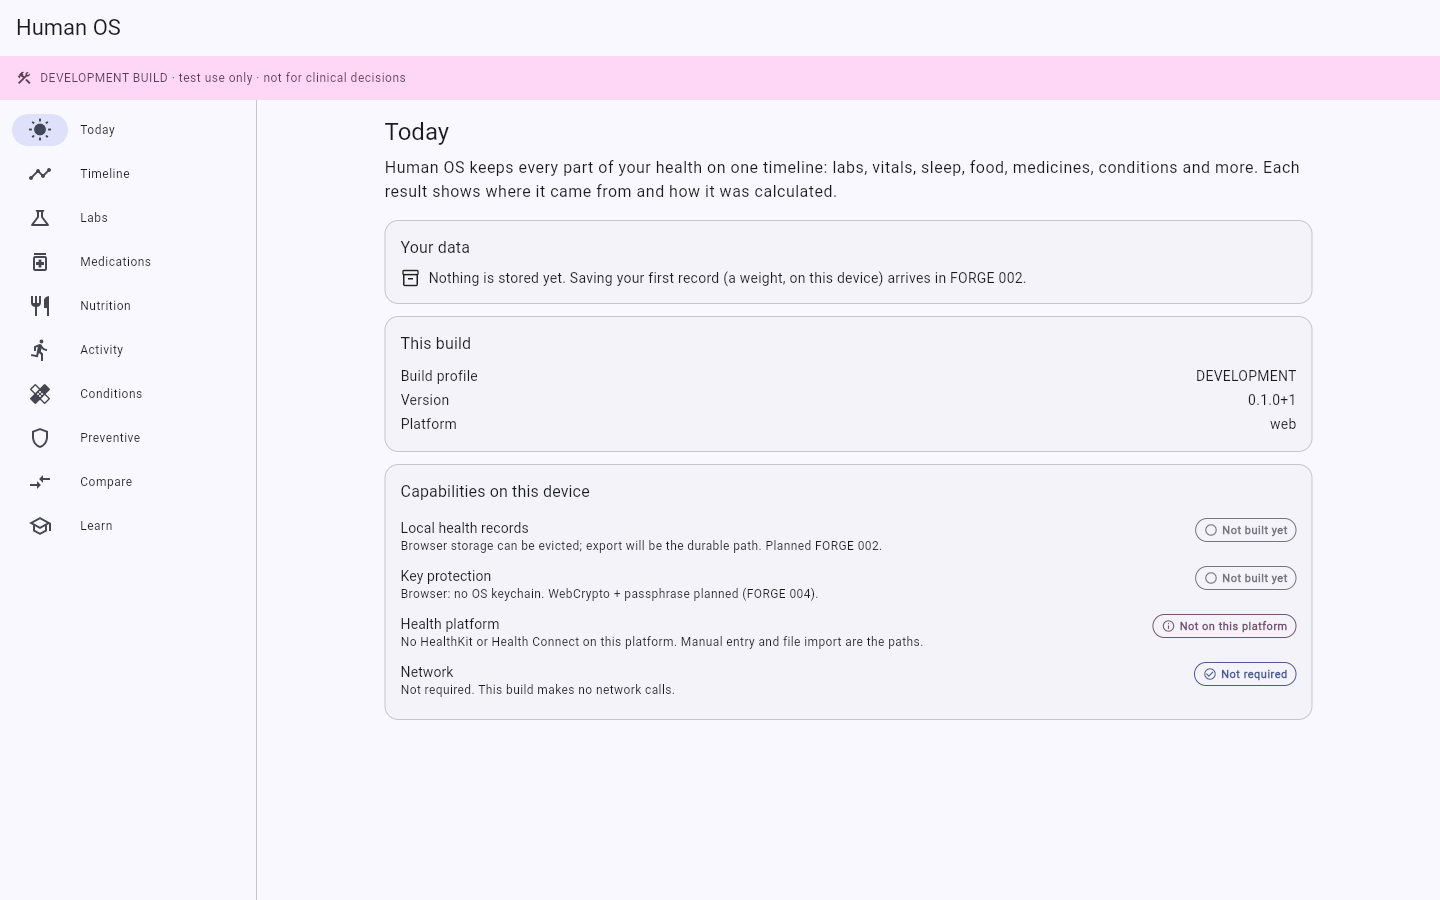
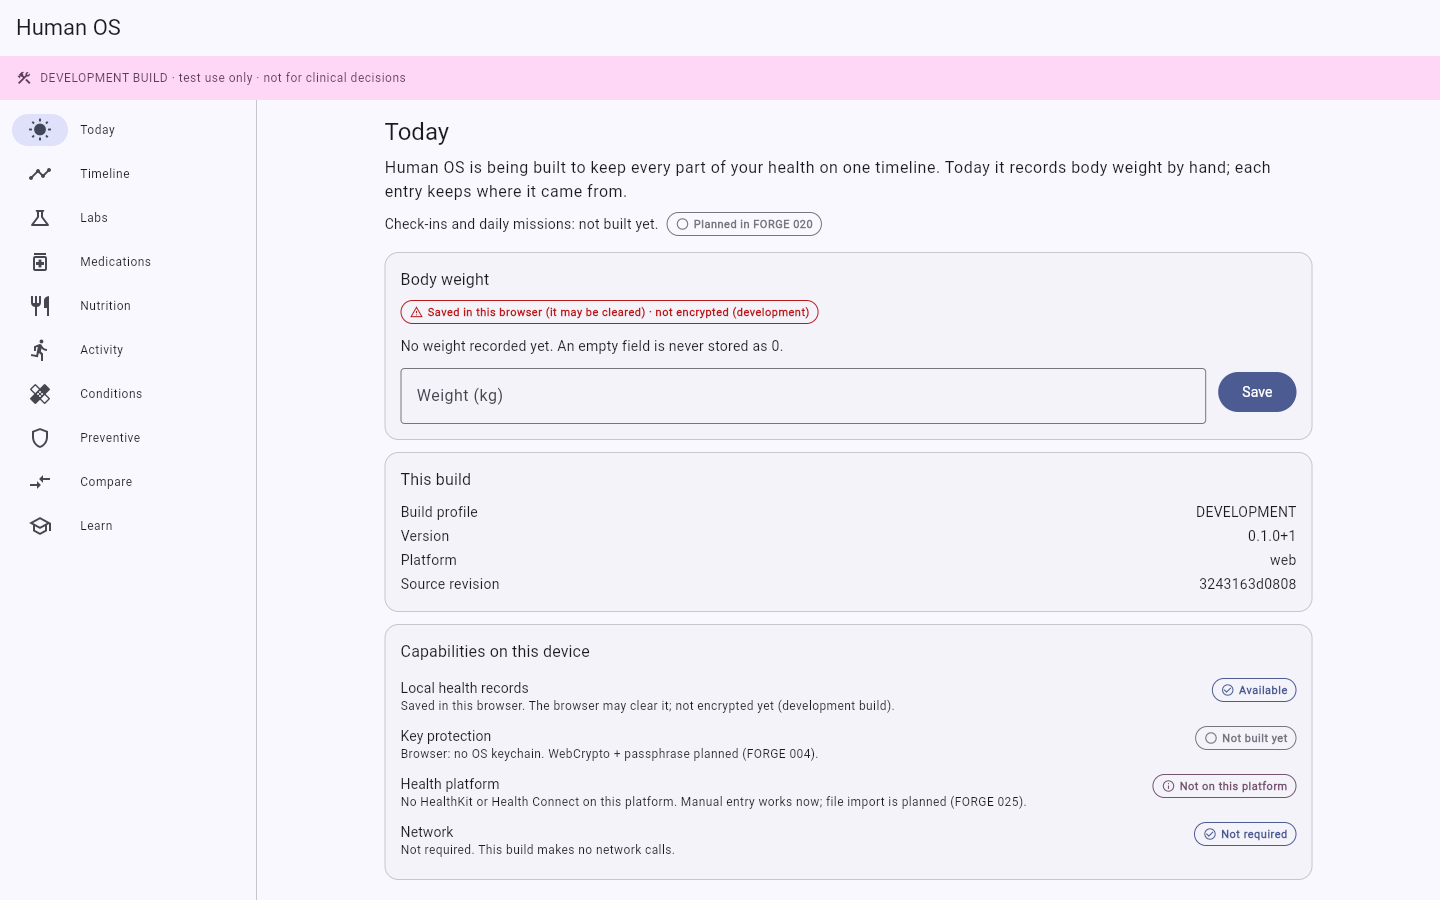
FORGE 002 report: evidence from commit 3243163, artifact hashes, state update
Web smoke 26/26 and Linux integration + launch evidence recorded against
the FORGE 002 code commit; artifact record with commands, hashes, glibc
floor and lockfile digests; FORGE log, CURRENT_STATE, ROADMAP and RISKS
updated. Next: F030L-1 Linux packages per v0.28.

Claude-Session: https://claude.ai/code/session_01Fg3ujcHPVxLDNVHLpFgU9v

diff --git a/project_state/FORGE_LOG.md b/project_state/FORGE_LOG.md
@@ -84,3 +84,77 @@ The FOUNDATION stage has started: F001 is **COMPILED + RUNTIME_TESTED** on web a
 
 ## Next recommended FORGE
 **FORGE 002, the local heartbeat.** Add a `HealthRepository` port, an in-memory adapter and a file-backed vault adapter. Create one profile and one canonical weight observation with provenance and `value_status`. Save, restart and read back the same record, and show missing ≠ 0 in the UI.
+
+---
+
+# FORGE 002: Local heartbeat (profile + one canonical record, save → restart → read back)
+
+## Goal
+First real health data path in the Flutter product: one self profile, one canonical body-weight observation with provenance and `value_status`, saved, re-read after restart, and shown with missing ≠ 0. Mid-FORGE the user supplied v0.28 (Linux distribution layer) and said to develop that way, so the v0.28 storage rules were applied here.
+
+## Baseline state
+F001 (6abf755): shell only, nothing persisted. Web and Linux RUNTIME_TESTED (launch). No domain layer.
+
+## Implemented
+- **Domain (pure Dart):** `HealthRecord` envelope (`RecordState`, `ValueStatus`, `Provenance`, `Quantity`, original text, UTC observed/recorded times, `supersedesId`, `deletedAt`, `schemaVersion`), `validate()` with stable codes (MISSING_ID, PRESENT_REQUIRES_QUANTITY, MISSING_HAS_NO_QUANTITY, NON_UTC_TIME, SELF_SUPERSEDE, UNIT_NOT_SUPPORTED, OUT_OF_PLAUSIBLE_RANGE), `currentRecords()` (supersede chains + tombstones), `Profile`, `HealthRepository` port, `StorageDescription`.
+- **Vault log:** append-only JSON lines (header + operations). An interrupted last line is skipped **with a visible warning**; a bad middle line is skipped with a warning; identical duplicates replay idempotently; conflicting duplicates and newer formats are refused.
+- **Adapters:** one `LogRepository` over three sinks: memory, file (`dart:io`, temp-file + rename on create, append + flush), browser `localStorage` (`dart:js_interop`, SDK only). Conditional export picks the platform.
+- **Storage policy (v0.28 / D-009):** production → memory only. Portable mode (`portable_mode.json` beside the executable) → memory only, **nothing written beside the app** until the encrypted vault (F004). Development desktop → XDG data dir / Application Support / LOCALAPPDATA. Android/iOS → memory with a notice. Every mode is labelled in the UI ("not encrypted (development)", "Not saved: kept only until the app closes", browser "may be cleared").
+- **Application + UI:** `HeartbeatService` (accepts "78,4"; blank, non-numeric, out-of-range and future times are errors, never 0), `WeightCard` (empty state, save, latest, history with "entered as" when the text differs), `bootstrap()` with a memory fallback if the vault cannot be opened.
+- **Audit fixes (honesty lens on F001; the code and completeness lenses did not finish and were not rerun):** Today intro rewritten from present-tense claims to "is being built…"; health-platform text no longer claims file import; Today now names its planned FORGE (020) for check-ins and missions; "This build" shows the source revision; the staging banner carries "not for clinical decisions"; the domain purity guard now checks import/export/part in both quote styles, fails if `lib/src/domain` disappears and has negative fixtures; README, ARCHITECTURE, CLAUDE.md (smoke path, full evidence ladder, digest precedence), PLATFORM_MATRIX, KNOWN_GAPS (status column) and D-007 (real transitive package list) corrected; the `docs/forge/CURRENT.md` link restored as a redirect stub; the smoke JSON now records time, git HEAD, `main.dart.js` hash, browser and runs; the Linux run log records liveness and labels headless GTK noise.
+
+## Files changed
+`human_health_os/lib/src/{domain,data,application}/**` (new), `lib/src/app/{app_services,bootstrap}.dart` (new), `lib/src/core/ids.dart` (new), `lib/src/features/today/*`, `lib/src/l10n/strings.dart`, `lib/src/core/capabilities.dart`, `lib/src/config/app_config.dart`, `lib/src/navigation/destinations.dart`, `lib/main.dart`; tests in `test/{domain,data,widget,architecture}`, `integration_test/heartbeat_test.dart`; `pubspec.yaml` (+ `integration_test` SDK dev dependency); `tools/flutter_web_smoke.mjs`; docs and `project_state/*`; `docs/handoff/v0.28-candidate/*`.
+
+## Data / migration changes
+New on-disk format `hhos-vault-log` v1 (`vault.hhoslog.jsonl`, header `encryption: none-dev-only`). Record schema v1. Readers refuse newer versions. F004 replaces the payload with an encrypted envelope; a migration from v1 dev logs is optional (dev data only).
+
+## Security / privacy impact
+Development builds now write **unencrypted** health data to the user data directory (labelled in the UI). Production and portable builds cannot write health data at all. No network code (architecture test). No secrets in the repo (scan of staged files: none). Real health data: none committed; tests use synthetic values in temp directories.
+
+## Tests actually executed
+| Command | Result | Status |
+|---|---|---|
+| `dart format --output=none --set-exit-if-changed lib test integration_test` | 0 changed | PASS |
+| `flutter analyze` | no issues | PASS |
+| `flutter test` | 58/58 (domain, data contract on memory + file, storage policy, architecture, widget incl. TR 320×640, staging, revision) | PASS |
+| Mutation: double-quoted Flutter `export` in `domain/profile/profile.dart` | architecture test FAILS, passes after revert | PASS (guard is meaningful) |
+| `xvfb-run flutter test integration_test -d linux` on 3243163 | save "77,9" → relaunch → same record → data folder moved → same record | PASS |
+| `node tools/flutter_web_smoke.mjs` on the 3243163 web build | 26/26 (desktop-en, phone-en, phone-tr; save → reload → persisted; honesty label; 0 external requests; 0 page errors) | PASS |
+| Linux release bundle under Xvfb (X11), `LANG=C.UTF-8`, scratch `XDG_DATA_HOME` | alive after 12 s (`kill -0`), screenshot shows Today + revision `3243163d0808`; vault = header + self profile, 0 records | PASS (launch only) |
+| TS reference / Build Lab (`pnpm test`, `verify_contracts.py`) | not rerun: no TS change in this FORGE | NOT_RUN |
+
+## Builds actually executed
+| Platform | Command | Status |
+|---|---|---|
+| Web | `flutter build web --release --no-web-resources-cdn --dart-define=APP_ENV=development --dart-define=SOURCE_REVISION=3243163…` | **PASS** (`reports/artifacts/forge-002.json`) |
+| Linux x64 | `flutter build linux --release …SOURCE_REVISION=3243163…` | **PASS**; glibc floor GLIBC_2.34; 0 unresolved `ldd` entries on Ubuntu 24.04 |
+| Linux packages (Flatpak, AppImage, tar.zst, deb, rpm) | — | NOT_RUN (next FORGE) |
+| Android APK/AAB | — | BLOCKED_ENVIRONMENT |
+| iOS / macOS | — | BLOCKED_BY_HOST_OS |
+| Windows portable / installer | — | BLOCKED_BY_HOST_OS |
+
+## Bugs found
+1. **v0.28 rule violation:** portable mode would have written a plaintext vault into `UserData/` beside the executable.
+2. Real file IO inside `testWidgets` (fake-async zone) never completed, so a widget test hung.
+3. Lint failures: private type in a public API (browser sink), getter/setter pair, initializing formals.
+4. Audit (honesty lens): present-tense capability claims on Today and in the capability registry; wrong smoke path in CLAUDE.md/ARCHITECTURE; vacuous domain purity test; stale README/PLATFORM_MATRIX/KNOWN_GAPS; broken CURRENT.md link; SBOM wording; staging banner without the clinical disclaimer.
+
+## Fixes applied
+1 → portable mode is memory-only with a notice until F004, with a test proving nothing is written beside the executable. 2 → widget tests use a shared `MemoryLogSink`; real IO is proven in `test/data` and the Linux `integration_test`. 3 → `_BrowserLogSink`, public field, public `clock`. 4 → see "Audit fixes" above.
+
+## Regression check
+After the last change: format, analyze, 58/58 tests, mutation check, clean web + Linux release rebuilds from the commit, web smoke 26/26, Linux integration test, Linux launch. The F001 checks are a subset of the current smoke and widget suites and all pass.
+
+## Artifacts produced
+- Deterministic tarballs of `build/web` and the Linux release bundle (session scratchpad; hashes, commands, glibc floor and lockfile digests in `reports/artifacts/forge-002.json`). Not committed; not packages.
+- `reports/runtime/flutter-web-*-{today,labs,weight}.png`, `flutter_web_smoke.json`, `flutter-linux-today.png`, `flutter-linux-run.log`.
+
+## Known limitations
+Storage is unencrypted (development only); production/portable cannot persist yet. Only body weight in kg. No corrections UI (the domain supports supersede). Android/iOS have no storage path adapter. Capability details and storage notices are English-only. Linux tested only on Ubuntu 24.04 under Xvfb X11. CI never ran (no GitHub access). Two of three audit lenses (code, completeness) did not complete.
+
+## State update
+F002 **RUNTIME_TESTED** on web and Linux (Ubuntu 24.04, X11). G-02 PARTIAL (encryption pending), G-01 CLOSED, G-11 PARTIAL, new G-12…G-14.
+
+## Next recommended FORGE
+**FORGE F030L-1: Linux distribution, first real packages** (roadmap item F030L, pulled forward; FORGE numbers follow roadmap ids, so F003 stays the Dart engines) per `docs/handoff/v0.28-candidate/BUILD_LINUX_DESKTOP_DISTRIBUTION_v0.28.txt`, because the user asked to develop along v0.28 and the release bundle is now real. Scope: install only real tools (zstd, rpm, desktop-file-utils, appstream, lintian); produce `HumanHealthOS-Linux-x86_64-Portable.tar.zst`, `.deb` and `.rpm` with desktop entry, AppStream metainfo and icon; validate each with its own tool; install/launch smoke in real Fedora, Debian and Ubuntu containers only if container images can actually be pulled; record path, arch, SHA-256, format, source revision, toolchain, lock digest, SBOM and signing state per artifact. Flatpak and AppImage only if their builders can be installed; Nobara, Wayland and every distro not actually run stay NOT_RUN. Portable mode stays memory-only (F004). Then F004 (encrypted vault, which unblocks portable persistence) and F003 (Dart engines against the golden vectors).

diff --git a/docs/ROADMAP.md b/docs/ROADMAP.md
@@ -3,9 +3,9 @@
 Each line is one bounded FORGE. A stage starts only after the stage it depends on reaches the stated evidence level. The status of each increment is tracked in `project_state/CURRENT_STATE.json`.
 
 ## FOUNDATION
-- **F001 – Flutter bootstrap + responsive shell.** `flutter create --empty` for 6 platforms. Ten destinations with rail/bar navigation. Visible build-profile badge. Widget tests. Web build and Playwright runtime smoke. Linux, Android, iOS, macOS and Windows are reported independently (v0.27 gate V1–V3).
-- **F002 – Local heartbeat.** Profile plus one canonical record (body weight) through the `HealthRepository` port. In-memory and file-backed vault adapters. Save, restart, and get the same record back. Missing ≠ 0 in the UI. *(The user's §32 first vertical slice.)*
-- **F003 – Dart core-derived engines** (`lib/src/domain/scoring`). Must pass `contracts/golden_vectors/core_derived_vectors.json` exactly like TS and Python. Adds an architecture test that blocks Flutter imports in the domain.
+- **F001 – Flutter bootstrap + responsive shell.** `flutter create --empty` for 6 platforms. Ten destinations with rail/bar navigation. Visible build-profile badge. Widget tests. Web build and Playwright runtime smoke. Linux, Android, iOS, macOS and Windows are reported independently (v0.27 gate V1–V3). — *Done: RUNTIME_TESTED on web and Linux (FORGE 001).*
+- **F002 – Local heartbeat.** Profile plus one canonical record (body weight) through the `HealthRepository` port. In-memory and file-backed vault adapters. Save, restart, and get the same record back. Missing ≠ 0 in the UI. *(The user's §32 first vertical slice.)* — *Done: RUNTIME_TESTED on web and Linux for development builds (FORGE 002). Storage is unencrypted; production and portable stay memory-only until F004.*
+- **F003 – Dart core-derived engines** (`lib/src/domain/scoring`). Must pass `contracts/golden_vectors/core_derived_vectors.json` exactly like TS and Python. The architecture test that blocks Flutter imports in the domain already exists (F002).
 - **F004 – Encrypted vault v1.** Versioned header, passphrase KDF, wrapped data key, wrong-passphrase and corrupt-header handling, and a portable-path-move test (same profile UUID). Web uses WebCrypto plus an export warning.
 - F005 – Schema migrations and backup/restore of the vault (checkpoint before migrate).
 

diff --git a/project_state/RISKS.md b/project_state/RISKS.md
@@ -14,3 +14,4 @@
 | R-10 | Clinical over-claiming (scores read as risk or lifespan) | Medium | High | Result classes, MODELLED labels, no external model without a licence and fixtures. |
 | R-11 | Flutter web fails at startup when the browser reports a non-BCP-47 locale (seen: headless Chromium in a POSIX-locale container reports `en-US@posix` → `RangeError: Incorrect locale information provided`) | Low on real browsers, certain in misconfigured CI | High (blank app) | Smoke tests pin `en-US`/`tr-TR`. Linux runs set `LANG=C.UTF-8`. Track upstream. Consider a defensive bootstrap that normalises `navigator.languages` before engine start (needs a custom `flutter_bootstrap.js`; evaluate in F034). |
 | R-12 | Capability and description strings are English-only while labels are EN/TR | Certain | Low | Move all UI copy to ARB (`flutter gen-l10n`) in FORGE 002/021. |
+| R-13 | Development builds store health entries **unencrypted** on disk or in browser storage, and someone uses a dev build with real data | Medium | High | Production and portable builds cannot persist (tested). Every dev surface shows "not encrypted (development)" and "not for clinical decisions". F004 replaces the payload with an encrypted envelope. |
